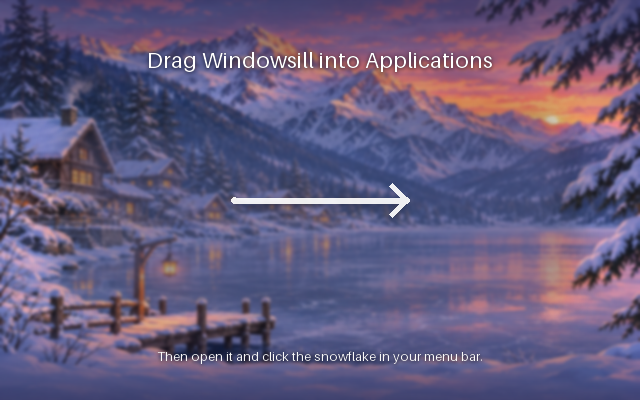
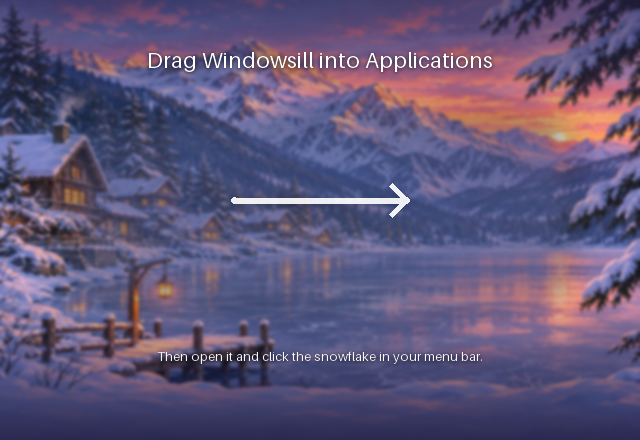
fix(dmg): the window's last line no longer falls under its edge [skip ci]
Finder's window height takes in the title bar, so a 400 pt window showed
368 pt of the background and cut off the line under the icons (run 66
shot). The window is 432 pt tall and the painting 440, so a taller or
shorter title bar only shows more or less of the spare snow.

diff --git a/scripts/dmg-settings.py b/scripts/dmg-settings.py
@@ -1,7 +1,7 @@
 # dmgbuild settings for Windowsill.dmg. scripts/package.sh runs:
 #   dmgbuild -s scripts/dmg-settings.py -D app=<Windowsill.app> -D background=<background.png> Windowsill <out.dmg>
 # dmgbuild writes the window's layout itself, so no Finder is needed (a CI Mac has no one to answer it).
-# background.png is 640 x 400 points; dmgbuild pairs it with background@2x.png beside it for Retina screens.
+# background.png is 640 x 440 points (the window shows the top 400); dmgbuild pairs it with background@2x.png beside it for Retina screens.
 # `defines` is the -D values, which dmgbuild hands to this file.
 import os.path
 
@@ -13,7 +13,7 @@ icon = os.path.join(app, "Contents/Resources/AppIcon.icns")  # the mounted disk 
 format = "UDZO"
 
 background = defines["background"]  # noqa: F821
-window_rect = ((200, 200), (640, 400))
+window_rect = ((200, 200), (640, 432))  # 400 pt of content under a ~32 pt title bar (macOS 26)
 default_view = "icon-view"
 show_icon_preview = False
 icon_size = 112
